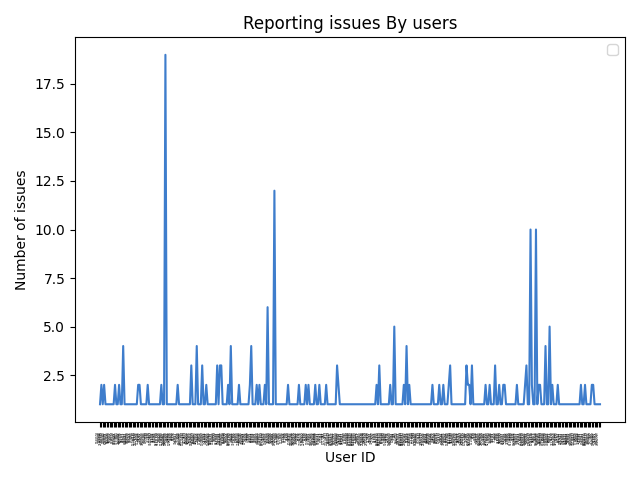
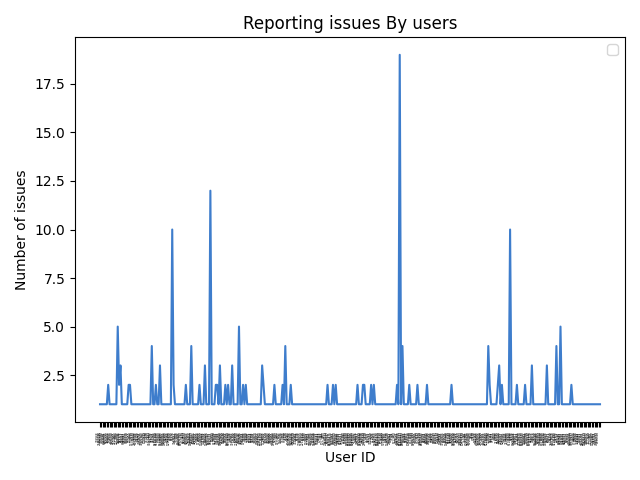
Added: TimeParser

Changed region(s): [[0.1562, 0.125, 0.9375, 0.8438], [0.125, 0.875, 0.9375, 0.9375]]

diff --git a/dataTreator/statTreatments.py b/dataTreator/statTreatments.py
@@ -1,24 +1,21 @@
 import collections
 import csv
 from matplotlib import pyplot
-import pandas as pd
 from datetime import datetime
 from datetime import timedelta
 import numpy as np
 
 
 def rangeDate(startdate):
-    dateDebut = datetime.strptime(startdate, "%Y-%m-%dT%H:%M:%SZ")
-    return dateDebut + timedelta(90)
+    startingDate = datetime.strptime(startdate, "%Y-%m-%dT%H:%M:%SZ")
+    return startingDate + timedelta(90)
 
 
 def dateToString(date):
-    return date.strftime("%Y-%m-%dT%H:%M:%S.%fZ")
-
+    return date.strftime("%Y-%m-%dT%H:%M:%SZ")
 
 
 def autolabel(rects):
-    
     for rect in rects:
         height = rect.get_height()
         axLabel.annotate('{}'.format(height),
@@ -45,55 +42,37 @@ rows = []
 label_set = set()
 users_list = []
 labels_general_list = []
-"""
-rows = ["nb_issue","id_issue","title", "id_user", "name_labels",
-            "nb_comments", "creation_time", "updated_time", "closed_time"]"""
 with open('../output_data.csv', newline='') as csvfile:
     csvreader = csv.reader(csvfile, delimiter=',')
     header = next(csvreader)
+    print(header)
     for row in csvreader:
         rows.append(row)
-
-
-"""
-Plot the occurency of the set of labels in the last 500 Issues
-
-"""
-"""
-"""
-
-StratingPeriodDate = rows[len(rows)-1][6]
+StratingPeriodDate = rows[len(rows) - 1][6]
 EndingPeriodDate = dateToString(rangeDate(StratingPeriodDate))
-print(EndingPeriodDate)
-listoflists = []
-subList = []
-i = len(rows)-1
-counter=0
-globalnm=0
+i = len(rows) - 1
+globalnm = 0
 dictionnary = dict()
-test = 0
-while i>=0 or rows[i][6]<EndingPeriodDate :
-    list_label = rows[i][4].replace('[', '').replace(']', '').replace("'", '').replace(' ', '').split(',')
-    users_list.append(rows[i][3])
-    for label in list_label:
-        if label != '':
-            labels_general_list.append(label)
-    if rows[i][6]>=StratingPeriodDate and rows[i][6]<EndingPeriodDate:
-        counter+=1
-        globalnm+=1
+counter = 0
+while i >= 0:
+
+    if StratingPeriodDate <= rows[i][6] < EndingPeriodDate:
         i -= 1
+        counter += 1
+        globalnm += 1
+        list_label = rows[i][4].replace('[', '').replace(']', '').replace("'", '').replace(' ', '').split(',')
+        users_list.append(rows[i][3])
+        for label in list_label:
+            if label != '':
+                labels_general_list.append(label)
     else:
-        test += counter
-        print(counter)
-        counter =0
-        dictionnary[StratingPeriodDate+ "-"+ EndingPeriodDate]= counter
-        subList = []
-        StratingPeriodDate=rows[i][6]
-        print(StratingPeriodDate)
-        EndingPeriodDate= dateToString(rangeDate(StratingPeriodDate))
+        dictionnary[StratingPeriodDate[0:7] + "-" + EndingPeriodDate[0:7]] = counter
+        counter = 0
+        StratingPeriodDate = EndingPeriodDate
+        EndingPeriodDate = dateToString(rangeDate(StratingPeriodDate))
 
-
-print(test)
+dictionnary[StratingPeriodDate[0:7] + "-" + EndingPeriodDate[0:7]] = counter
+print(globalnm)
 print(dictionnary.keys())
 occurences = collections.Counter(labels_general_list)
 label_set = set(labels_general_list)
@@ -123,5 +102,14 @@ axUsers.set_xticklabels(occurences_users, rotation=90, ha='right', fontsize=2)
 axUsers.legend()
 figUsers.tight_layout()
 pyplot.savefig('../dataPlot/NbissuesByUser.png')
+figTime, axTime = pyplot.subplots()
+TimePlot = axTime.plot([j for j in dictionnary.keys()], [dictionnary[i] for i in dictionnary.keys()], color='#3E7DCC')
+axTime.set_ylabel('Number of issues')
+axTime.set_xlabel('Time')
+axTime.set_title('Reporting issues cross time')
+axTime.set_xticks(np.arange(len(dictionnary)))
+axTime.set_xticklabels(dictionnary.keys(), rotation=90, ha='right', fontsize=8)
+axTime.legend()
+figTime.tight_layout()
+pyplot.savefig('../dataPlot/NbIssuesPerTime.png')
 pyplot.show()
-
